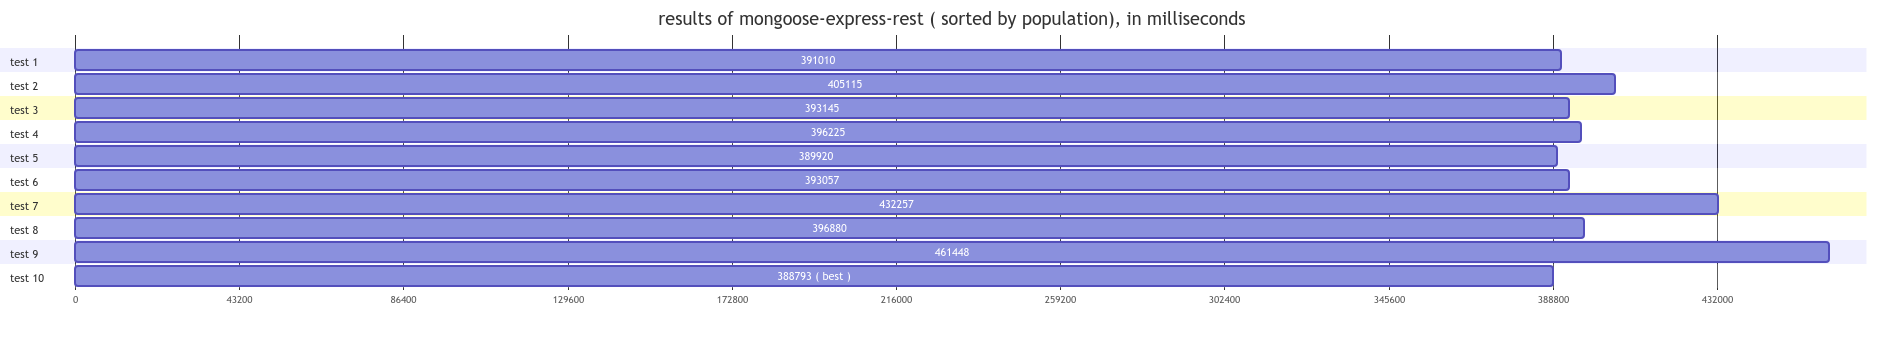
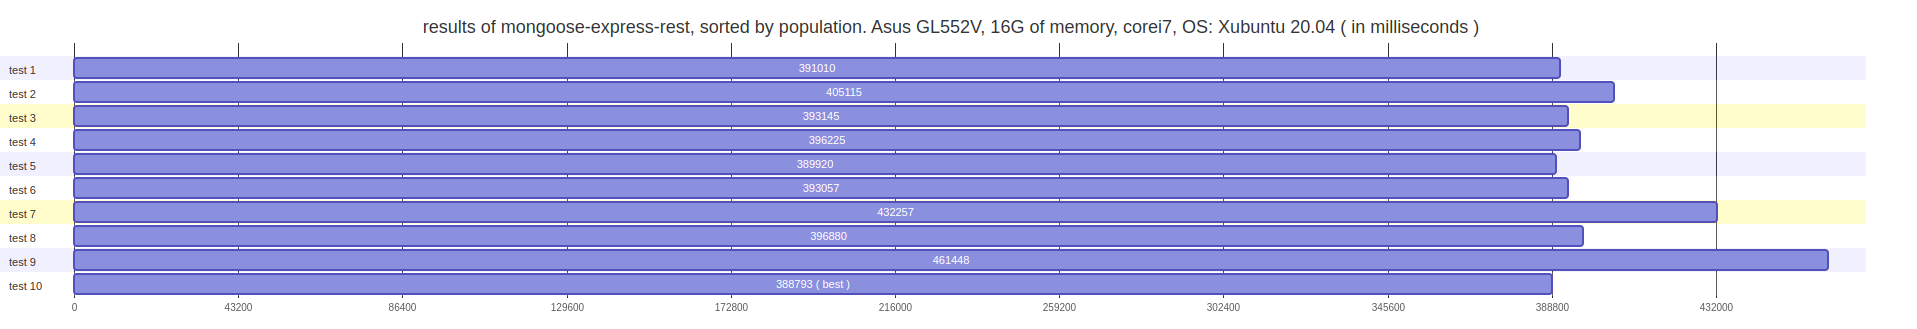
replaced png results with white background images

diff --git a/src/http/mongoose-express-rest/noSort/results.md b/src/http/mongoose-express-rest/noSort/results.md
@@ -1,6 +1,6 @@
 %% to see results online: https://mermaid.live/
 gantt
-   	title results of mongoose-express-rest, not sorted by population. Asus GL552V, 16G of memory, corei7 ( in milliseconds ) 
+   	title results of mongoose-express-rest, not sorted by population. Asus GL552V, 16G of memory, corei7, OS: Xubuntu 20.04 ( in milliseconds ) 
     dateFormat X
     axisFormat %s
     section test 1

diff --git a/src/http/mongoose-express-rest/sorted/results.md b/src/http/mongoose-express-rest/sorted/results.md
@@ -1,6 +1,6 @@
 %% to see results online: https://mermaid.live/
 gantt
-   	title results of mongoose-express-rest, sorted by population), in milliseconds
+   	title results of mongoose-express-rest, sorted by population. Asus GL552V, 16G of memory, corei7, OS: Xubuntu 20.04 ( in milliseconds ) 
     dateFormat X
     axisFormat %s
     section test 1
